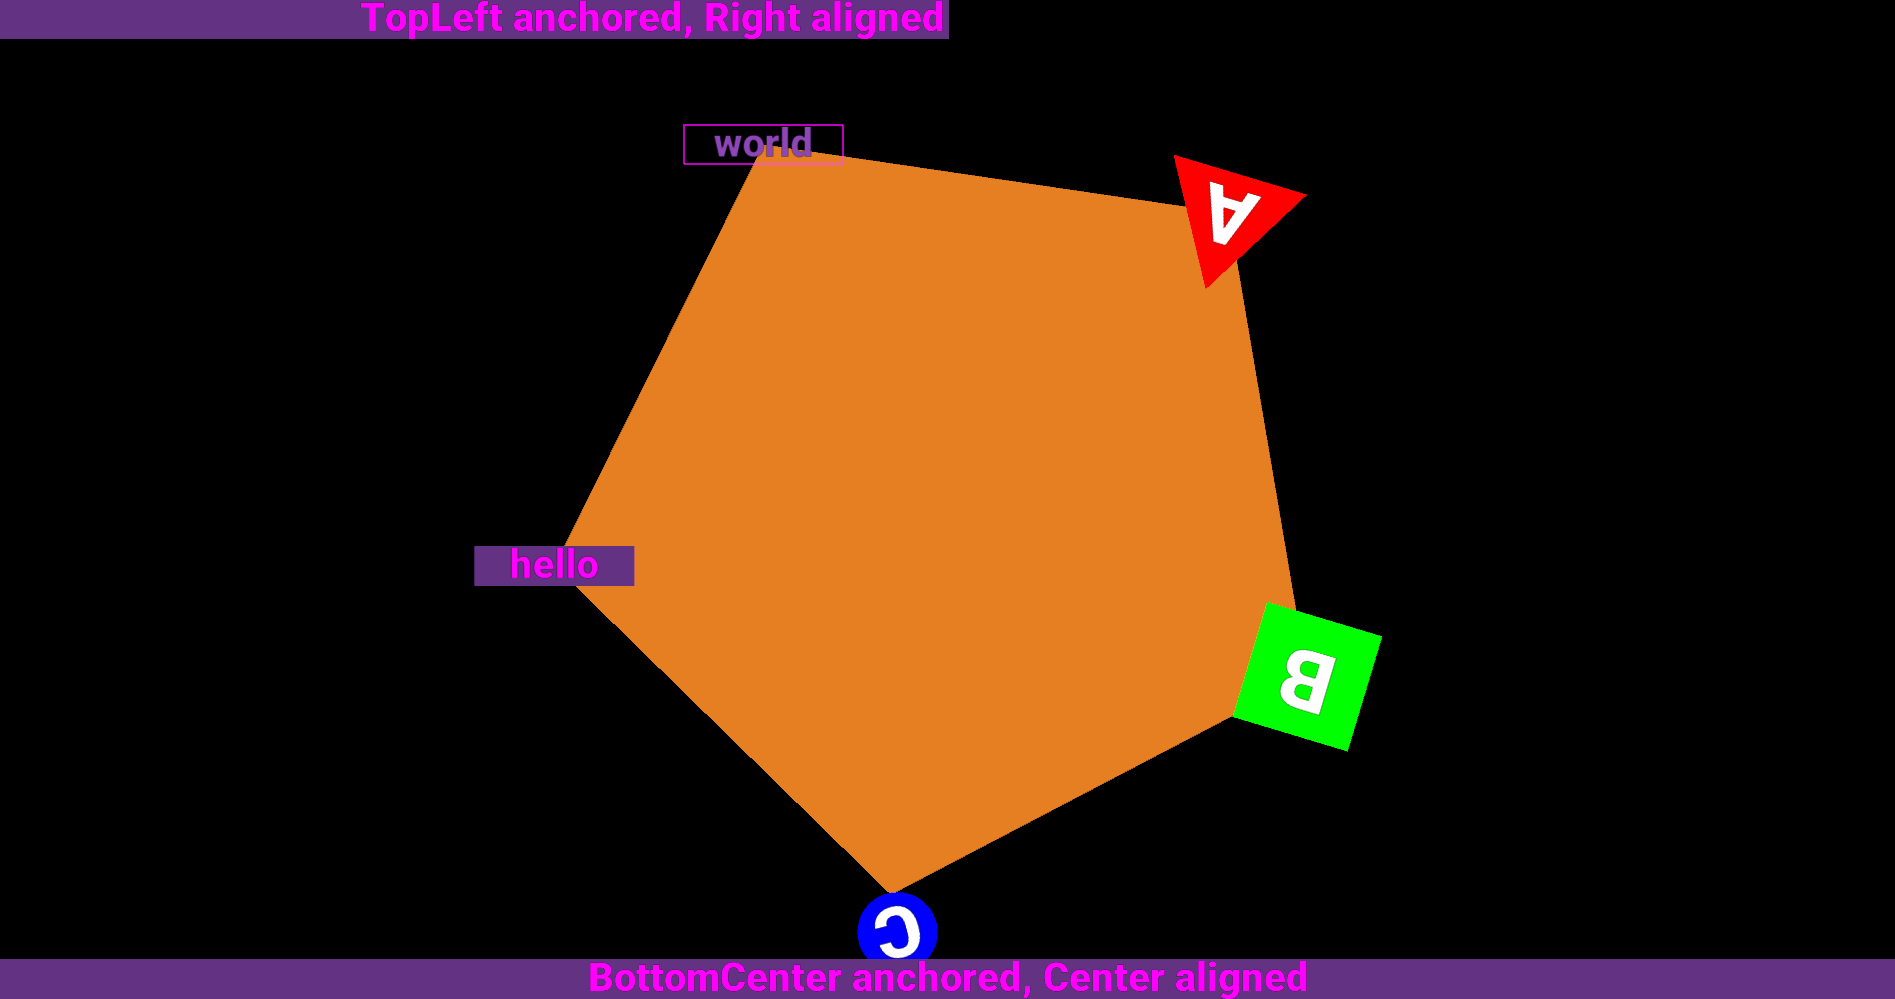
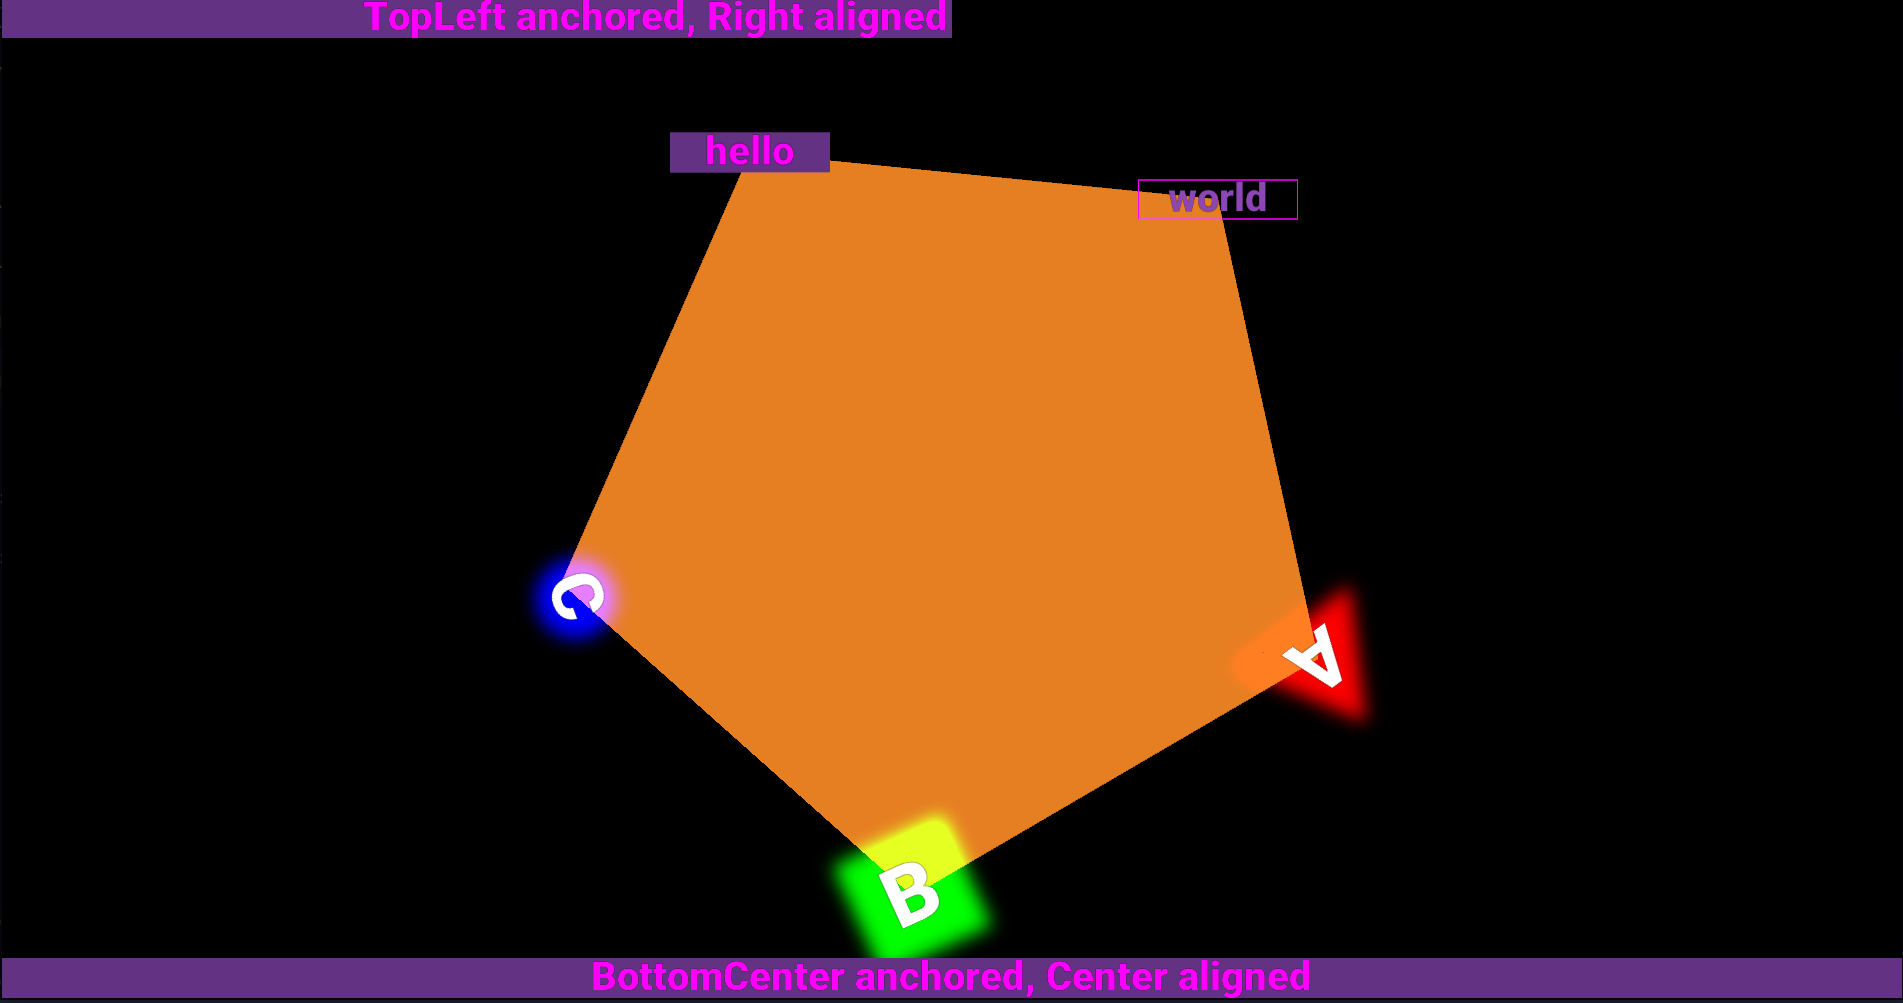
Update 2d example

diff --git a/examples/2d/carousel.go b/examples/2d/carousel.go
@@ -19,6 +19,9 @@ type Carousel struct {
 func (c *Carousel) defaultLayout() {
 	c.triangle.SetColor(gfx.Red)
 	c.triangle.SetScale(mgl32.Vec3{.2, .2})
+	c.triangle.SetBlurEnabled(true)
+	c.triangle.SetBlurIntensity(3)
+
 	triangleLabel := gfx.NewLabel()
 	triangleLabel.SetText("A")
 	triangleLabel.SetScale(mgl32.Vec3{.5, .5})
@@ -26,6 +29,8 @@ func (c *Carousel) defaultLayout() {
 
 	c.quad.SetColor(gfx.Green)
 	c.quad.SetScale(mgl32.Vec3{.15, .15})
+	c.quad.SetBlurEnabled(true)
+	c.quad.SetBlurIntensity(3)
 	quadLabel := gfx.NewLabel()
 	quadLabel.SetText("B")
 	quadLabel.SetScale(mgl32.Vec3{.7, .7})
@@ -33,6 +38,8 @@ func (c *Carousel) defaultLayout() {
 
 	c.dot.SetColor(gfx.Blue)
 	c.dot.SetScale(mgl32.Vec3{.1, .1})
+	c.dot.SetBlurEnabled(true)
+	c.dot.SetBlurIntensity(3)
 	dotLabel := gfx.NewLabel()
 	dotLabel.SetText("C")
 	dotLabel.SetScale(mgl32.Vec3{.9, .9})
@@ -72,7 +79,7 @@ func (c *Carousel) Update(deltaTime int64) bool {
 	triangleX := math.Cos(float64(rotation+seatAngle)) * scaledX
 	triangleY := math.Sin(float64(rotation+seatAngle)) * scaledY
 	c.triangle.SetPosition(mgl32.Vec3{-float32(triangleX), float32(triangleY)})
-	c.triangle.SetRotationZ(rotation)
+	c.triangle.SetRotationZ(rotation * 2)
 
 	quadX := math.Cos(float64(rotation+seatAngle*3)) * scaledX
 	quadY := math.Sin(float64(rotation+seatAngle*3)) * scaledY
